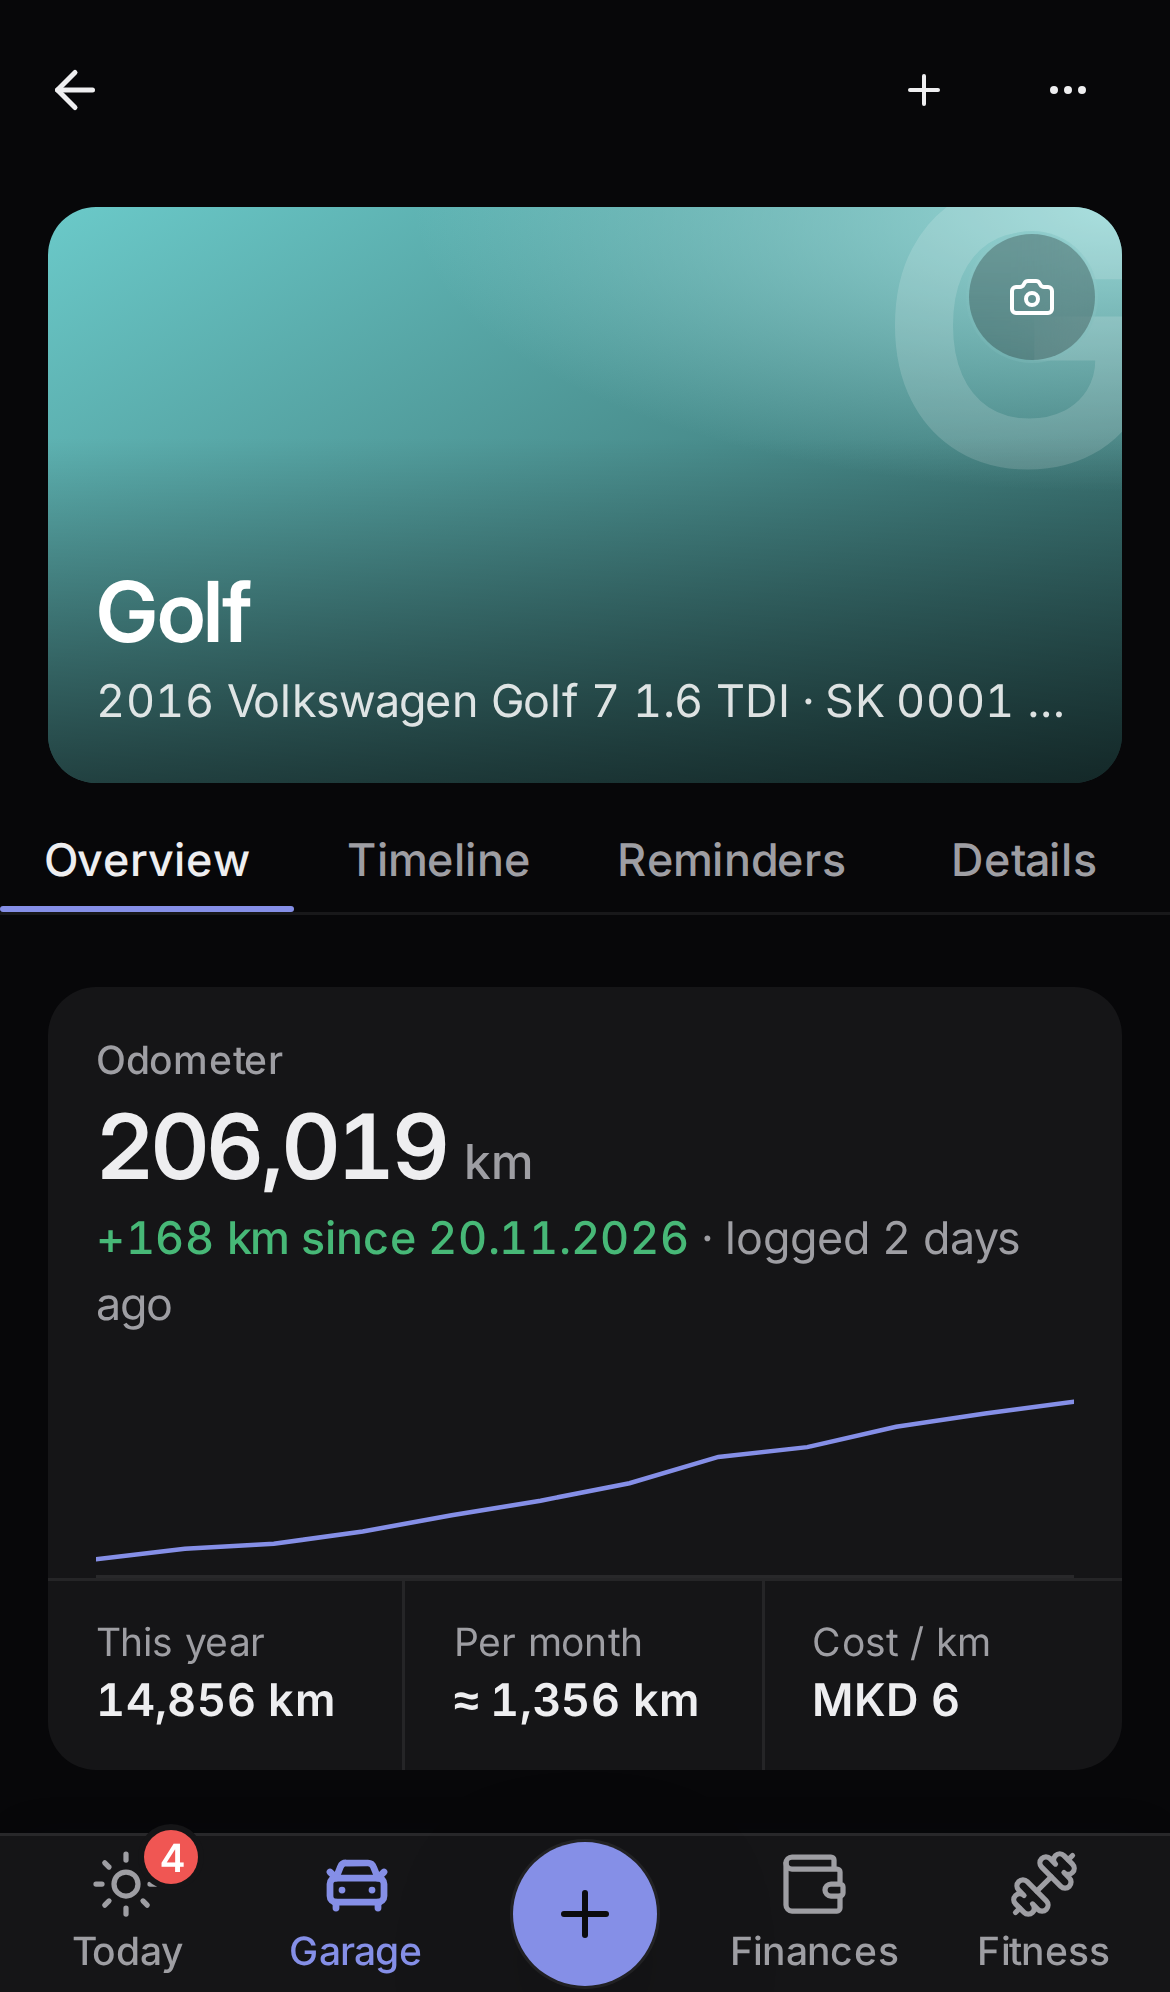
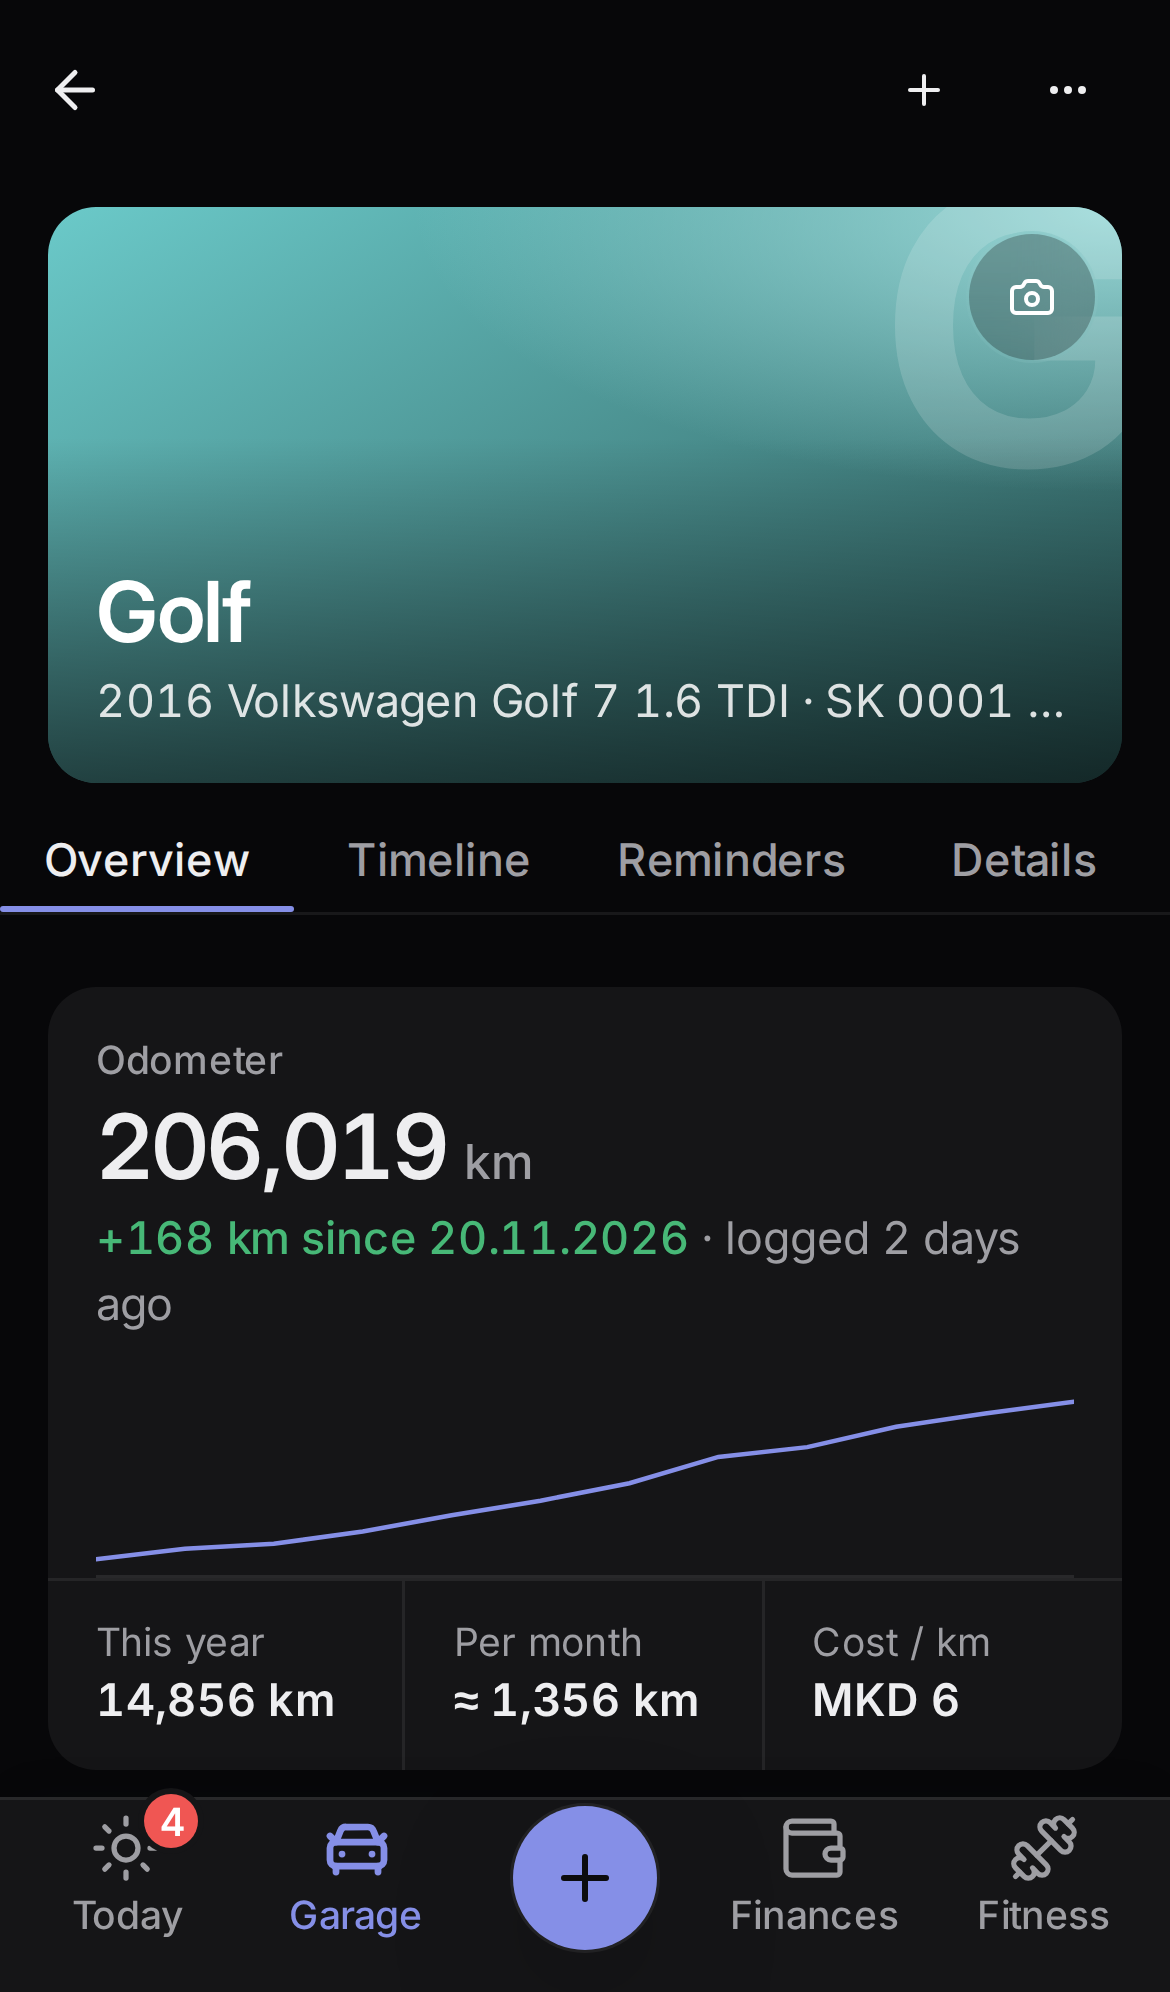
Phone tab bar: at least 12px below the labels
Android and most browsers report no bottom safe-area inset, so the
labels sat on the screen edge. iPhones keep their home-indicator inset.

diff --git a/src/client/styles.css b/src/client/styles.css
@@ -50,9 +50,10 @@
 }
 
 /* The phone tab bar: docked to the bottom edge above the home indicator,
-   solid (nothing shows through), with a hairline and a soft lift on top. */
+   solid (nothing shows through), with a hairline and a soft lift on top.
+   At least 12px below the labels: Android and browsers often report no inset. */
 @utility tabbar-dock {
-  padding-bottom: env(safe-area-inset-bottom);
+  padding-bottom: max(0.75rem, env(safe-area-inset-bottom));
   background: var(--card);
   border-top: 1px solid var(--border);
   box-shadow: 0 -4px 16px -6px oklch(0.2 0.02 265 / 0.12);

diff --git a/docs/DESIGN-LANGUAGE.md b/docs/DESIGN-LANGUAGE.md
@@ -133,7 +133,7 @@ Everything here applies below 48rem only; desktop renders exactly as before.
 - **Header actions:** one pattern: bare 44px icon buttons (search, +, …). No labelled buttons in the phone top row; Log out lives at the end of Settings.
 - **Rows:** the title always wins. Long status ("10 days ago · 1,232 km over") moves into the meta line in its status colour, so the trailing slot holds at most a short figure (an amount). Transactions and Timeline amounts use `Money`, so "−MKD" reads as a light prefix.
 - **Swipe actions:** reminder rows (Skip, Done), fitness sessions (Skip, Done), unpaid invoices (Mark paid), recurring income to confirm (Skip, Confirm), transactions (Delete). They reuse the same dialogs, mutations, confirmations and toasts as the tap path, which keeps working.
-- **Tab bar:** docked to the bottom edge (`tabbar-dock`: solid card colour, a hairline and a soft lift on top, the home-indicator inset below): Today · Garage · Quick add (a round indigo button in the middle) · Finances · Fitness, each an icon over a 12px label; the current tab is in the accent colour and Today carries a count badge. Settings is not a tab (avatar on each module home). It keeps `view-transition-name: tabbar`, so it never animates with the page.
+- **Tab bar:** docked to the bottom edge (`tabbar-dock`: solid card colour, a hairline and a soft lift on top, the home-indicator inset below, never less than 12px): Today · Garage · Quick add (a round indigo button in the middle) · Finances · Fitness, each an icon over a 12px label; the current tab is in the accent colour and Today carries a count badge. Settings is not a tab (avatar on each module home). It keeps `view-transition-name: tabbar`, so it never animates with the page.
 - **Top row:** sticks for the whole page on a solid canvas (nothing shows through; the large title collapses into it); list filters (`FilterBar`) and the car tabs (`TabsList variant="bar"`: full-width equal tabs with a sliding underline) pin right under it.
 - **One target per row:** reminder rows on phones show the done circle only; Edit, Skip and Done are on the swipe and Delete is in the edit sheet. Long meta lines wrap (`ListRowText wrapMeta`) instead of ending in "…".
 - **Add transaction (phones):** a full-width Expense / Income switch, categories as one sideways-scrolling row of pills (tinted icon and the full name, the most used first, a pick from "More…" first), then one details box (For, Date with Today / Yesterday chips, Client, Receipt), so the sheet fits a 360 × 760 screen.
